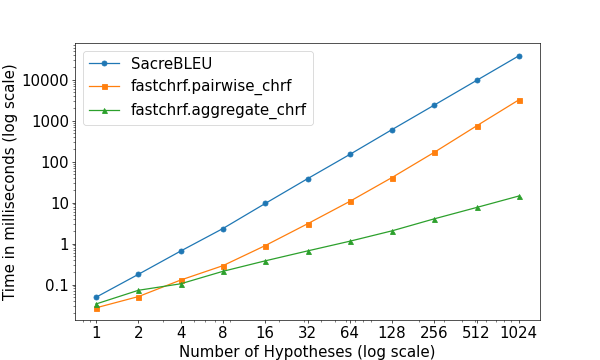
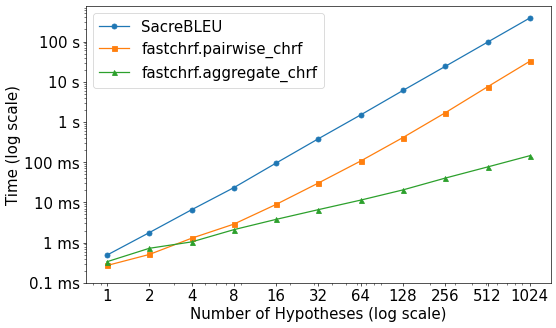
Fix benchmark figure

diff --git a/benchmarking/visualize.py b/benchmarking/visualize.py
@@ -9,9 +9,9 @@ with open(Path(__file__).parent / "results.tsv") as f:
     data = list(reader)
 
 hypotheses = [int(row["n"]) for row in data]
-sacreBLEU = 100 * np.array([float(row["sacrebleu"]) for row in data])
-fastchrf_pairwise = 100 * np.array([float(row["pairwise"]) for row in data])
-fastchrf_aggregate = 100 * np.array([float(row["aggregate"]) for row in data])
+sacreBLEU = 1000 * np.array([float(row["sacrebleu"]) for row in data])
+fastchrf_pairwise = 1000 * np.array([float(row["pairwise"]) for row in data])
+fastchrf_aggregate = 1000 * np.array([float(row["aggregate"]) for row in data])
 
 plt.rcParams.update({'font.size': 18})
 plt.figure(figsize=(10, 6))
@@ -21,12 +21,12 @@ plt.plot(hypotheses, fastchrf_pairwise, label='fastchrf.pairwise_chrf', marker='
 plt.plot(hypotheses, fastchrf_aggregate, label='fastchrf.aggregate_chrf', marker='^')
 
 plt.xlabel('Number of Hypotheses (log scale)')
-plt.ylabel('Time in milliseconds (log scale)')
+plt.ylabel('Time (log scale)')
 plt.xscale('log')
 plt.yscale('log')
 plt.xticks(hypotheses, labels=[f"{h}" for h in hypotheses])
-plt.yticks([0.1, 1, 10, 100, 1000, 10000], labels=[f"{t}" for t in [0.1, 1, 10, 100, 1000, 10000]])
+plt.yticks([0.1, 1, 10, 100, 1000, 10000, 100000], labels=["0.1 ms", "1 ms", "10 ms", "100 ms", "1 s", "10 s", "100 s"])
 
 plt.legend()
 
-plt.savefig(Path(__file__).parent / "results.png", dpi=60)
+plt.savefig(Path(__file__).parent / "results.png", dpi=60, bbox_inches='tight')
